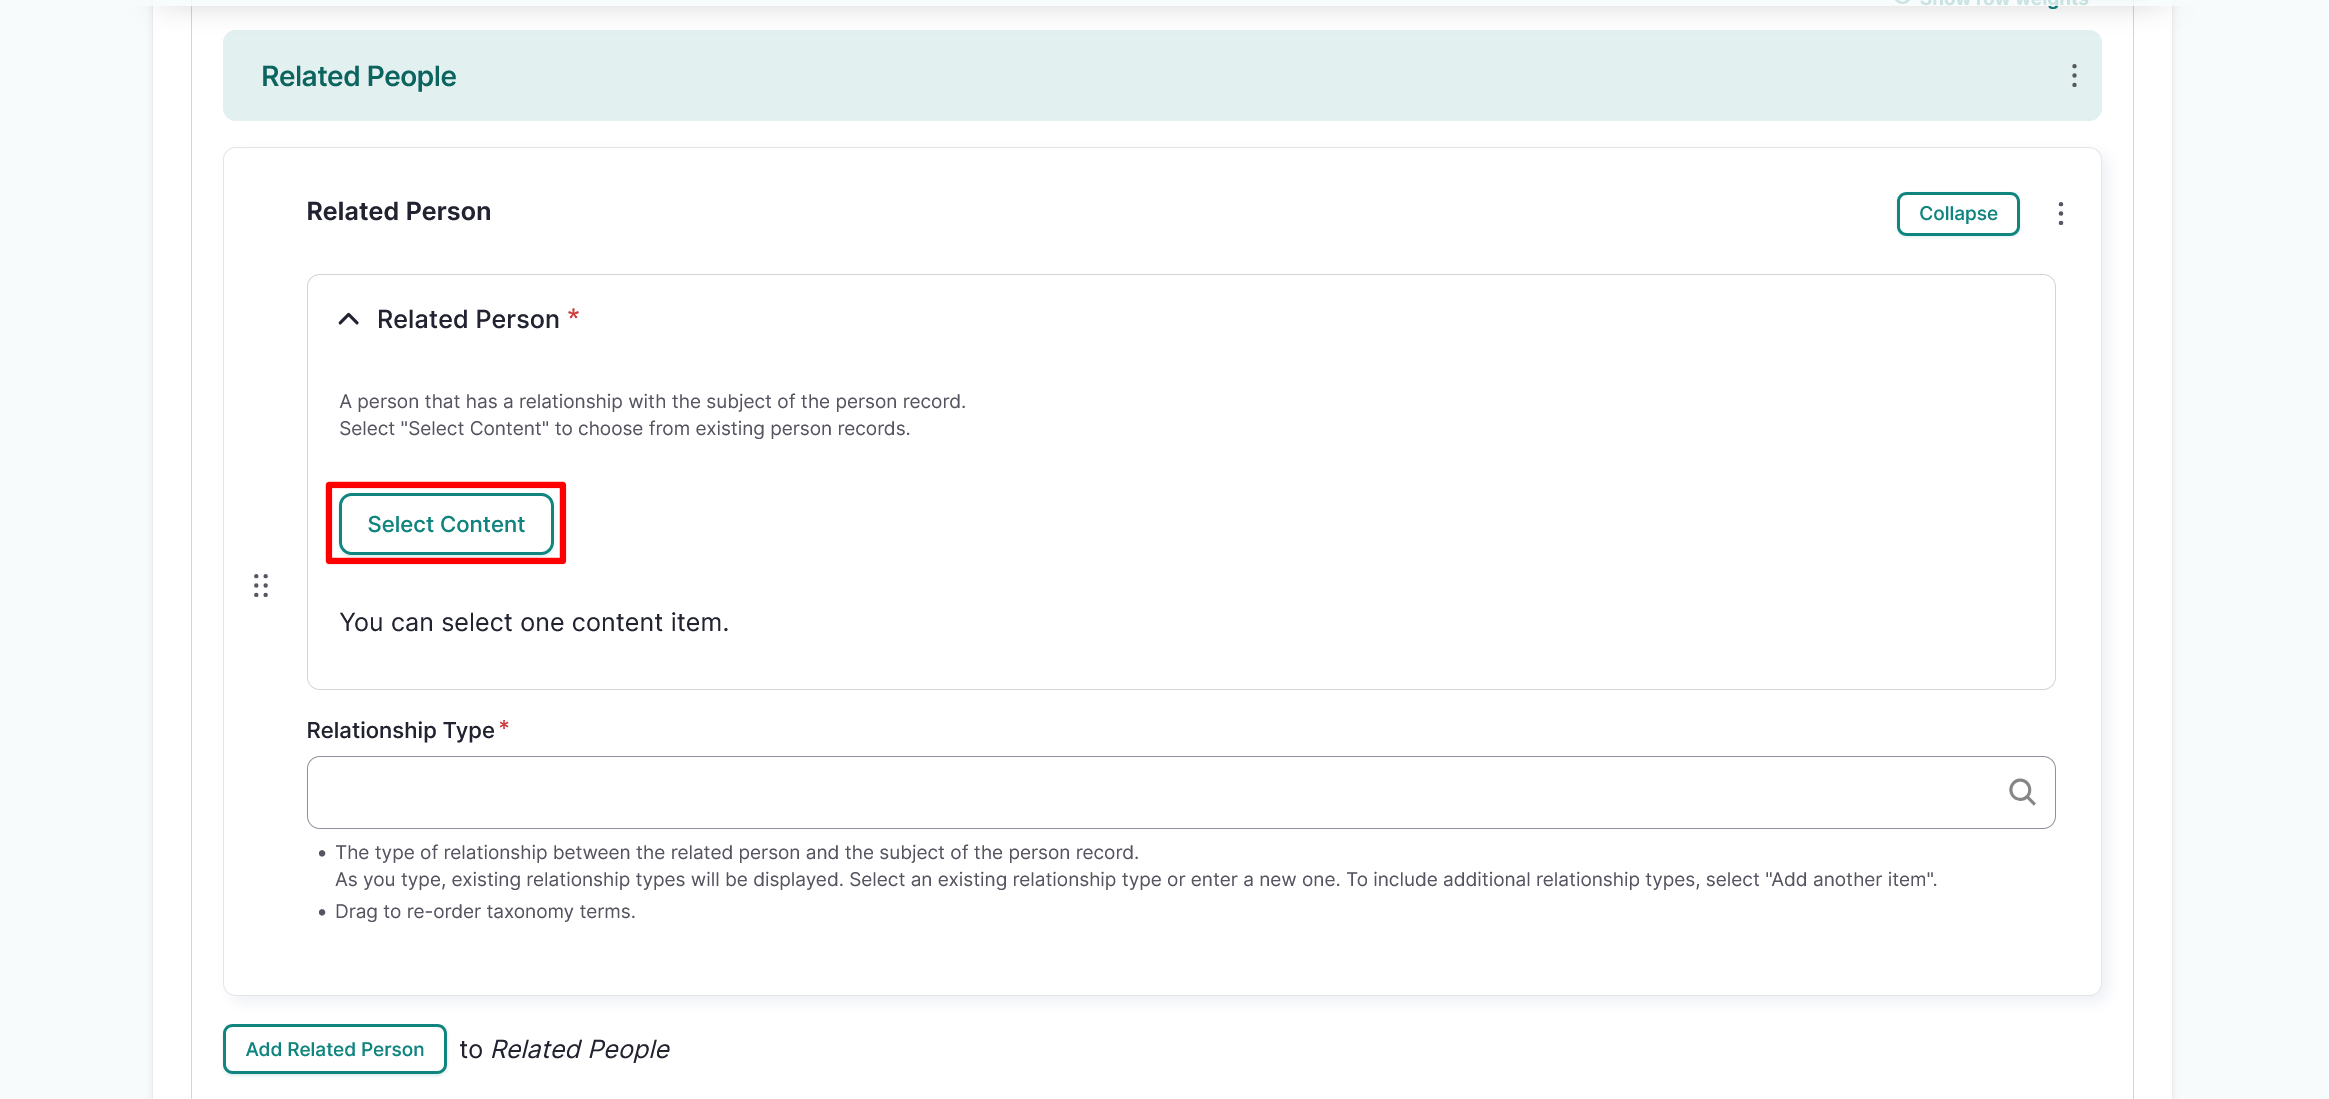
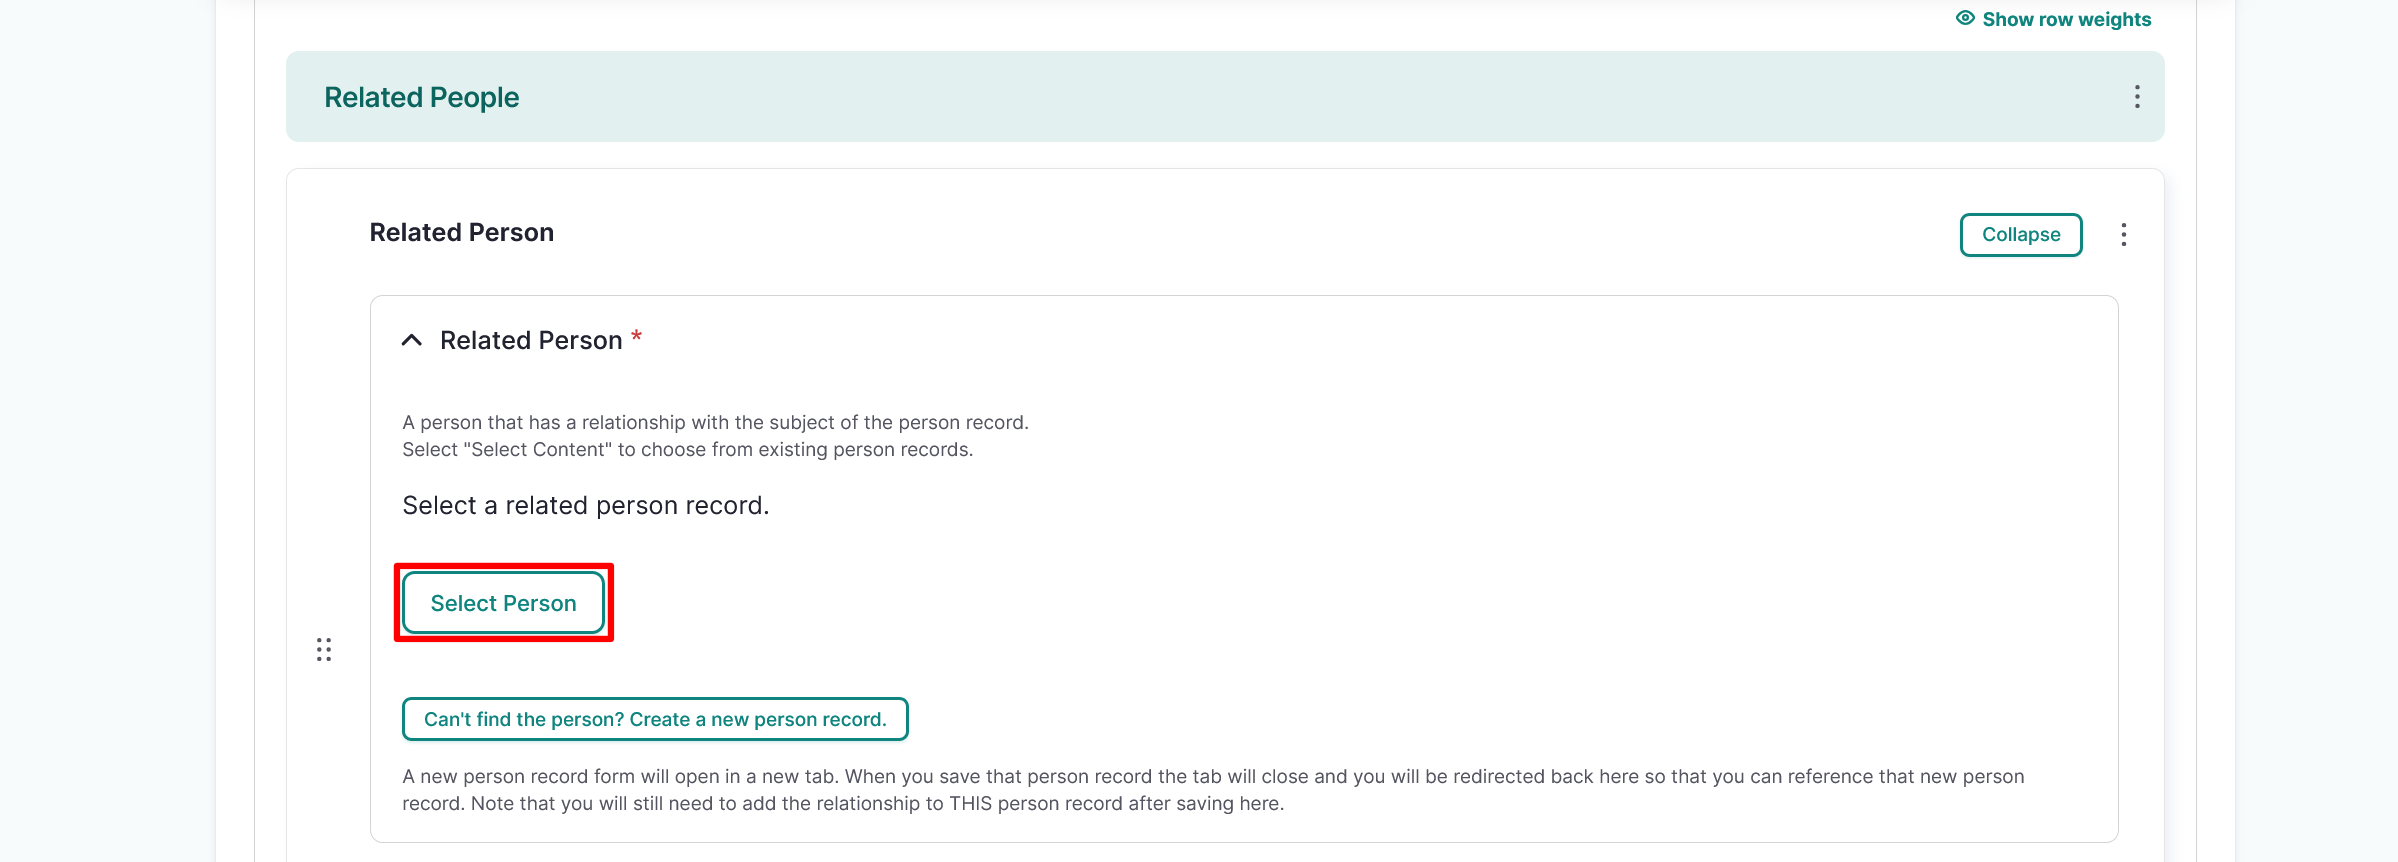
Update person records
Add a person record on the fly

diff --git a/docs/person-records/PersonRecords.md b/docs/person-records/PersonRecords.md
@@ -79,20 +79,24 @@ In the *Place of Death* field enter the location the person died. You can select
 ### Related people
 
 !!! requirement
-    Related person records must have already been created in order to be added to the related people section. Note that these relationships are not automatically bi-directional, and must be added to both person records. 
+    Interpersonal relationships are not automatically bi-directional, and must be added to both person records. 
 
-In the **Related People** section, select the "Add Related Person" button to add a related individual to your person record. Related people is used to reflect real-world relationships between people. Examples include family, professional, cultural, educational, or any other kind of interpersonal relationships. 
+You can add a related person to a person record by adding an extant person record or by creating one on the fly. Related people is used to reflect real-world relationships between people. Examples include family, professional, cultural, educational, or any other kind of interpersonal relationships. 
 
-1. Select the "Select content" button. 
+To add a related person, navigate to the **Related People** section and select the "Add Related Person" button. For information on creating a related person record on the fly, refer to the [Create a person record on the fly](#create-a-person-record-on-the-fly) section of this article. 
 
-    ![Screenshot of the add related person button in the related people section](../_embeds/person6.png)
+![Screenshot of the add related person button in the related people section](../_embeds/person6.png)
+
+#### Add an extant person record
+
+1. Select the "Select person" button. 
+
+    ![Screenshot of the related person field with the select content button highlighted.](../_embeds/person7.png)
 
     !!! tip 
         You can use the search field to search for other person records by name.
 
 2. Select the checkbox beside the person record you wish to add as a related person, then scroll down and select "Add Content". You can only add one related person at a time.
-
-    ![Screenshot of the related person field with the select content button highlighted.](../_embeds/person7.png)
 
     ![Screenshot of the add related person field with a name selected and the add content button highlighted](../_embeds/person8.png)
 
@@ -104,6 +108,19 @@ In the **Related People** section, select the "Add Related Person" button to add
     ![Screenshot showing the relationship type field filled out with add another item highlighted](../_embeds/person9.png)
 
 4. Select and drag the arrows to reorder your related people if necessary. To remove a related person, select the "Remove" button.
+
+#### Create a person record on the fly
+
+To create a person record on the fly, select the "Can't find the person? Create a new person record." button. 
+
+![Screenshot of the related person selection field with the can't find the person create a new person record button highlighted.](../_embeds/person15.png)
+
+This opens a new tab in your browser where you can create a person record. 
+
+- Create a person record as outlined in this article, then select the "Save" button. 
+- The tab will close and your page will open on the Select Person modal, where you can select the person record you just created and add the *Relationship type* information as outlined in the [Add an extant person record](#add-an-extant-person-record) section of this article.
+
+![Screenshot of the add related person section with the related person and relationship type filled in.](../_embeds/person16.png)
 
 ### Biography sections
 
